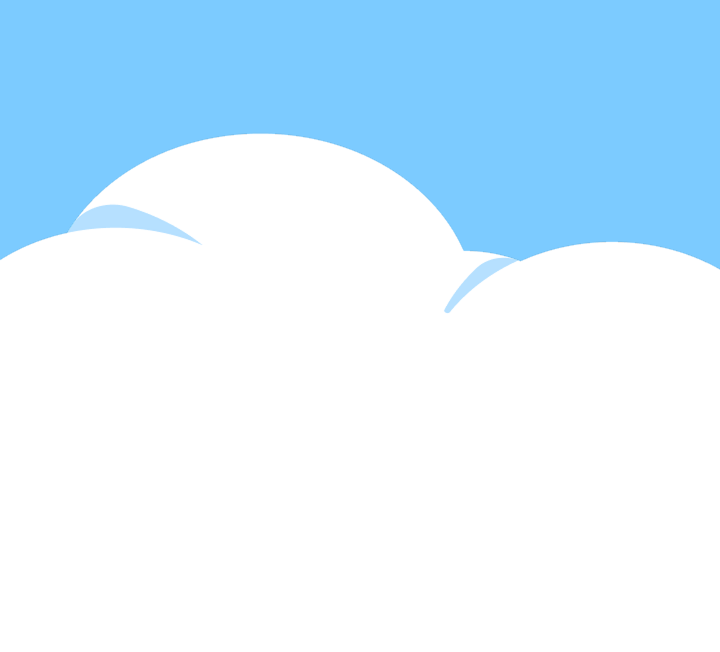
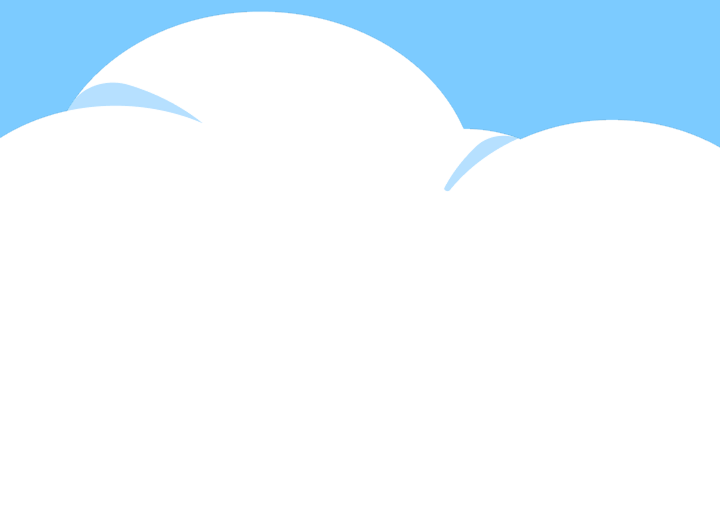
서브07 수정

Changed region(s): [[0.0, 0.0, 1.0, 0.483]]

diff --git a/sub-07.html b/sub-07.html
@@ -119,7 +119,7 @@
   #sub-07 .sec02-body { padding-left: 0; }
   #sub-07 .sec02-body p { font-size: 16px; font-weight: 400; }
 
-  #sub-07 .sec02-img-section { padding: 10px 0 40px; }
+  #sub-07 .sec02-img-section { padding: 10px 0 40px; max-width: 500px; }
   #sub-07 .sec02-img-row { flex-direction: column; align-items: center; gap: 30px; }
 
   /* 컬럼 너비 키움 */
@@ -185,7 +185,7 @@
 #sub-07 .sec03-arrow .arrow { width: clamp(30px, 3vw, 50px); height: auto; }
 
 @media (max-width: 768px) {
-  #sub-07 .sec03-wrap { grid-template-columns: 1fr; grid-template-rows: auto; gap: 30px; padding: 0 20px; }
+  #sub-07 .sec03-wrap { grid-template-columns: 1fr; grid-template-rows: auto; gap: 30px; padding: 0 20px; max-width: 500px; }
   #sub-07 .sec03-group-a { grid-column: 1; grid-row: auto; order: 1; }
   #sub-07 .sec03-group-c { grid-column: 1; grid-row: auto; order: 2; flex-direction: column; align-items: center; }
   #sub-07 .sec03-group-b { grid-column: 1; grid-row: auto; order: 3; }
@@ -232,7 +232,7 @@
 } */
 
 @media (max-width: 768px) {
-  #sub-07 .sec04-wrap { flex-direction: column; align-items: flex-start; gap: 30px; padding: 0 20px 50px; }
+  #sub-07 .sec04-wrap { flex-direction: column; align-items: flex-start; gap: 30px; padding: 0 20px 50px; max-width: 500px; }
   #sub-07 .sec04-col { width: 100%; }
   #sub-07 .sec04-col.shark { align-items: start; }
   #sub-07 .sec04-stat .s-label { font-size: 18px; }
@@ -257,7 +257,7 @@
 #sub-07 .gray-text { padding-left: 1.2em; text-indent: -1.2em; color: #535353; font-size: 18px; font-weight: 400; word-break: keep-all; margin-bottom: 80px; }
 
 @media (max-width: 768px) {
-  #sub-07 .sec05-wrap { flex-direction: column; align-items: stretch; gap: 24px; padding: 0 20px 50px; }
+  #sub-07 .sec05-wrap { flex-direction: column; align-items: stretch; gap: 24px; padding: 0 20px 50px; max-width: 500px;}
   #sub-07 .sec05-img { order: 1; flex: none; width: 100%; }
   #sub-07 .sec05-text-left { order: 2; flex: none; text-align: left; }
   #sub-07 .sec05-text-right { order: 3; flex: none; text-align: right; }
@@ -277,21 +277,55 @@
 #sub-07 .sec06-img { flex: 0 0 160px; }
 #sub-07 .sec06-img img { width: 100%; height: auto; }
 #sub-07 .sec06-text { flex: 1; }
-#sub-07 .sec06-text h3 { font-size: 1.1vw; font-weight: 700; margin-bottom: 10px; }
-#sub-07 .sec06-text p { font-size: 0.9vw; line-height: 1.8; color: #333; }
+#sub-07 .sec06-text h3 { font-size: 20px; color: #fff; font-weight: 600; margin-bottom: 10px; }
+#sub-07 .sec06-text p { font-size: 18px; line-height: 1.8; }
 
 @media (max-width: 768px) {
   #sub-07 .sec06 { background: #7CCBFF; padding: 50px 0 80px; }
   #sub-07 .sec06-wrap { padding: 0 20px; }
-  #sub-07 .sec06-intro.mob { display: block; }
+  #sub-07 .sec06-intro.mob { display: block; padding: 0 20px; }
   #sub-07 .sec06-intro.pc { display: none; }
   #sub-07 .sec06-title { font-size: 21px; }
   #sub-07 .sec06-desc { font-size: 16px; }
   #sub-07 .sec06-item { flex-direction: column; align-items: flex-start; gap: 16px; margin-bottom: 40px; }
   #sub-07 .sec06-item.reverse { flex-direction: column; }
-  #sub-07 .sec06-img { flex: none; width: 120px; }
-  #sub-07 .sec06-text h3 { font-size: 17px; }
-  #sub-07 .sec06-text p { font-size: 14px; }
+  #sub-07 .sec06-img { flex: none; width: 120px; margin: 0 auto; }
+  #sub-07 .sec06-text h3 { font-size: 18px; color: #000; }
+  #sub-07 .sec06-text p { font-size: 16px; }
+}
+
+/* === Section 07 === */
+#sub-07 .sec07 { background: #fff; padding: 80px 0 0; }
+#sub-07 .sec07-wrap { }
+#sub-07 .sec07-intro { text-align: center; margin-bottom: 60px; }
+#sub-07 .sec07-title { font-size: 25px; font-weight: 600; margin-bottom: 10px; }
+#sub-07 .sec07-desc { font-size: 18px; line-height: 1.9; }
+#sub-07 .sec07-list { display: flex; flex-direction: column; align-items: center; }
+#sub-07 .sec07-card-header { display: flex; align-items: center; gap: 8px; margin: 0 0 10px; }
+#sub-07 .sec07-card-num { font-size: 20px; font-weight: 500; margin: 0; flex-shrink: 0; }
+#sub-07 .sec07-card-title { font-size: 20px; font-weight: 500; margin: 0; line-height: 1.4; }
+#sub-07 .sec07-card { min-height: 370px; width: 100%; max-width: 970px; background: url('img/sub/07/blueBox-top-pc.png') center / 100% 100% no-repeat; padding: 60px 50px; display: flex; align-items: center; gap: 40px; box-sizing: border-box; }
+#sub-07 .sec07-card:first-child { min-height: 320px; }
+#sub-07 .sec07-card + .sec07-card { background-image: url('img/sub/07/blueBox-middle-pc.png'); margin-top: -12px; padding: 200px 50px 60px; }
+#sub-07 .sec07-card-img { flex: 0 0 180px; }
+#sub-07 .sec07-card-img img { width: 100%; height: auto; display: block; }
+#sub-07 .sec07-card-text { flex: 1; color: #fff; }
+#sub-07 .sec07-card-body { font-size: 18px; line-height: 1.8; margin: 0; font-weight: 400; }
+
+@media (max-width: 768px) {
+  #sub-07 .sec07 { background: url('img/sub/07/middle-bg-mob.png') top center / 100% auto no-repeat; background-color: #fff; padding: 0 0 10px; }
+  #sub-07 .sec07-list { max-width: 330px; margin: 0 auto; }
+  #sub-07 .sec07-intro { padding: 150px 0 0; }
+  #sub-07 .sec07-wrap { padding: 0 20px; }
+  #sub-07 .sec07-card-header { align-items: flex-start; }
+  #sub-07 .sec07-title { font-size: 21px; }
+  #sub-07 .sec07-desc { font-size: 16px; line-height: 1.8; }
+  #sub-07 .sec07-card { background-image: url('img/sub/07/blueBox-top-mob.png'); padding: 40px 20px; flex-direction: column; gap: 40px; }
+  #sub-07 .sec07-card + .sec07-card { background-image: url('img/sub/07/blueBox-middle-mob.png'); padding: 80px 20px 40px;; margin-top: -8px; }
+  #sub-07 .sec07-card-img { max-width: 180px; }
+  #sub-07 .sec07-card-num { font-size: 16px; }
+  #sub-07 .sec07-card-title { font-size: 16px; }
+  #sub-07 .sec07-card-body { font-size: 16px; }
 }
 
 </style>
@@ -408,14 +442,14 @@
 
  <div class="nps-wrap">
  
-    <div class="nps-label-wrap nps-wrap-inner">
+    <div class="nps-label-wrap nps-wrap-inner" data-aos="fade-right" data-aos-duration="700" data-aos-delay="300">
       <p class="nps-label">그린 시그널</p>
       <div class="nps-label-line"></div>
       <p class="nps-author">write. 편집실</p>
     </div>
  
     <div class="title-wrap nps-wrap-inner">
-      <h2 class="title">
+      <h2 class="title" data-aos="fade-up" data-aos-duration="800">
         깨끗함의 역설 <br>
         우리가 몰랐던 세탁기 속<br class="mob-br"> 비밀
       </h2>
@@ -423,12 +457,12 @@
     <hr class="section-divider">
     <div class="body-wrap">
        <div class="nps-desc-wrap nps-wrap-inner">
-          <p class="nps-desc">
+          <p class="nps-desc" data-aos="fade-up" data-aos-duration="700" data-aos-delay="200">
             매일 반복되는 세탁. 옷은 깨끗해지지만, 보이지 않는 오염은 물과 함께 흘러간다. 섬유는 잘게 부서져 ‘미세 플라스틱’이 되고, 하수를 지나 바다에 닿는다. 그리고 결국 우리의 식탁 위로 다시 돌아온다. 깨끗함의 기준을 다시 생각해야 할 때다.
           </p>
         </div>
 
-      <div class="img-section">
+      <div class="img-section" data-aos="zoom-in-up" data-aos-duration="1000">
         <img class="img-bg" src="img/sub/07/01-bg.png" alt="">
         <div class="img-illust-wrap">
           <img class="img-illust" src="img/sub/07/01.png" alt="세탁기와 미세플라스틱 일러스트">
@@ -494,7 +528,7 @@
 
       <div class="nps-wrap-inner">
         <div data-aos="fade-up" data-aos-duration="600">
-          <div class="article-num-wrap" style="margin-top: 0 !important;">
+          <div class="article-num-wrap" >
             <span class="article-num">2</span>
             <h3 class="article-subtitle-num">바다로 이어지는 흐름</h3>
           </div>
@@ -685,7 +719,53 @@
               <p>옷을 고르는 단계에서도 선택은 달라질 수 있다. 합성섬유는 세탁 시 미세 플라스틱을 발생시키지만, 면이나 울과 같은 천연섬유는 자연 분해가 가능하다. 소재를 바꾸는 것만으로도 구조적인 배출을 줄일 수 있다.</p>
             </div>
           </div>
+        </div>
+      </div>
 
+      <div class="sec07">
+        <div class="sec07-wrap nps-wrap-inner">
+
+          <div class="sec07-intro" data-aos="fade-up" data-aos-duration="600">
+            <h2 class="sec07-title">기술은 어디까지 왔나</h2>
+            <p class="sec07-desc">문제가 분명해진 만큼, 이를 해결하려는 시도도 함께 시작되고 있다. 일상의 방식만으로 줄이는 데에는 한계가 있지만,<br class="pc-br"> 기술은 그 한계를 보완하는 방향으로 움직이고 있다. 배출을 '줄이는 것'을 넘어, '막고 바꾸는' 단계로 나아가는 중이다.</p>
+          </div>
+
+          <div class="sec07-list">
+
+            <div class="sec07-card" data-aos="fade-right" data-aos-duration="600">
+              <div class="sec07-card-img"><img src="img/sub/07/07-01.png" alt="세탁기 외부 장착형 필터"></div>
+              <div class="sec07-card-text">
+                <div class="sec07-card-header">
+                  <p class="sec07-card-num">①</p>
+                  <h3 class="sec07-card-title">세탁기 외부 장착형 미세 플라스틱 필터</h3>
+                </div>
+                <p class="sec07-card-body">세탁 과정에서 발생한 미세 섬유를 배출 전에 걸러내는 방식이다. 세탁기 배수 라인에 필터를 연결해 물과 함께 흘러나가는 섬유를 물리적으로 포집한다. 삼성전자가 아웃도어 브랜드 파타고니아, 해양 보호 단체 오션와이즈와 협업하여 개발한 전용 필터는 최대 98%의 포집 성능을 인정받아 미국 타임(TIME)지의 ‘2023년 최고의 발명품’으로 선정되기도 했다. 기존 세탁기에도 간편하게 연결할 수 있어 현재 가장 빠르게 확산되고 있는 기술이다.</p>
+              </div>
+            </div>
+
+            <div class="sec07-card" data-aos="fade-left" data-aos-duration="600" data-aos-delay="100">
+              <div class="sec07-card-img"><img src="img/sub/07/07-02.png" alt="필터 내장형 세탁기"></div>
+                <div class="sec07-card-text">
+                  <div class="sec07-card-header">
+                    <p class="sec07-card-num">②</p>
+                    <h3 class="sec07-card-title">필터 내장형 세탁기</h3>
+                  </div>
+                  <p class="sec07-card-body">최근에는 필터를 별도로 설치하는 것을 넘어, 세탁기 자체에 저감 기능을 포함하려는 시도가 이어지고 있다. LG전자와 삼성전자는 미세 플라스틱 배출을 최대 60~70%까지 줄여주는 전용 세탁 코스를 최신 모델에 탑재하기 시작했다. 특히 프랑스는 2025년부터 신규 세탁기에 미세 플라스틱 필터 장착을 의무화하는 법안을 세계 최초로 통과시켰으며, 이는 향후 가전의 글로벌 표준 기능으로 자리 잡을 전망이다.</p>
+                </div>
+            </div>
+
+            <div class="sec07-card" data-aos="fade-right" data-aos-duration="600" data-aos-delay="200">
+              <div class="sec07-card-img"><img src="img/sub/07/07-03.png" alt="바이오 섬유"></div>
+              <div class="sec07-card-text">
+                <div class="sec07-card-header">
+                  <p class="sec07-card-num">③</p>
+                  <h3 class="sec07-card-title">미생물 기반 '바이오 섬유'</h3>
+                </div>
+                <p class="sec07-card-body">미세 플라스틱을 줄이는 또 다른 접근은 '소재'의 근본적인 변화에 있다. 옥수수나 사탕수수 등에서 추출한 원료나 미생물을 기반으로 한 자연 분해 가능 섬유를 개발해, 세탁 과정에서 발생하는 오염 자체를 줄이려는 것이다. 기존 합성섬유를 대체할 수 있는 지속 가능한 소재로 주목받고 있으며, 수중에서도 100% 분해되는 소재에 대한 연구와 시범 도입이 가속화되고 있다.</p>
+              </div>
+            </div>
+
+          </div>
         </div>
       </div>
 
@@ -700,7 +780,7 @@
       <div class="thumb-wrap">
       <!-- THUMB CARDS -->
       <div class="thumb-section">
-        <div class="thumb-card thumb-bg-1">
+        <div class="thumb-card thumb-bg-1" data-aos="fade-right" data-aos-duration="800" data-aos-delay="0">
           <div class="thumb-card-inner">
             <div class="thumb-arrow">
               <svg viewBox="0 0 300 300" xmlns="http://www.w3.org/2000/svg" width="300" height="300">
@@ -715,7 +795,7 @@
             </div>
           </div>
         </div>
-        <div class="thumb-card thumb-bg-2">
+        <div class="thumb-card thumb-bg-2" data-aos="fade-left"  data-aos-duration="800" data-aos-delay="150">
           <div class="thumb-card-inner right">
             <div class="thumb-text">
               <p class="thumb-title">꼬리에 꼬리를 무는 문화탐구</p>
